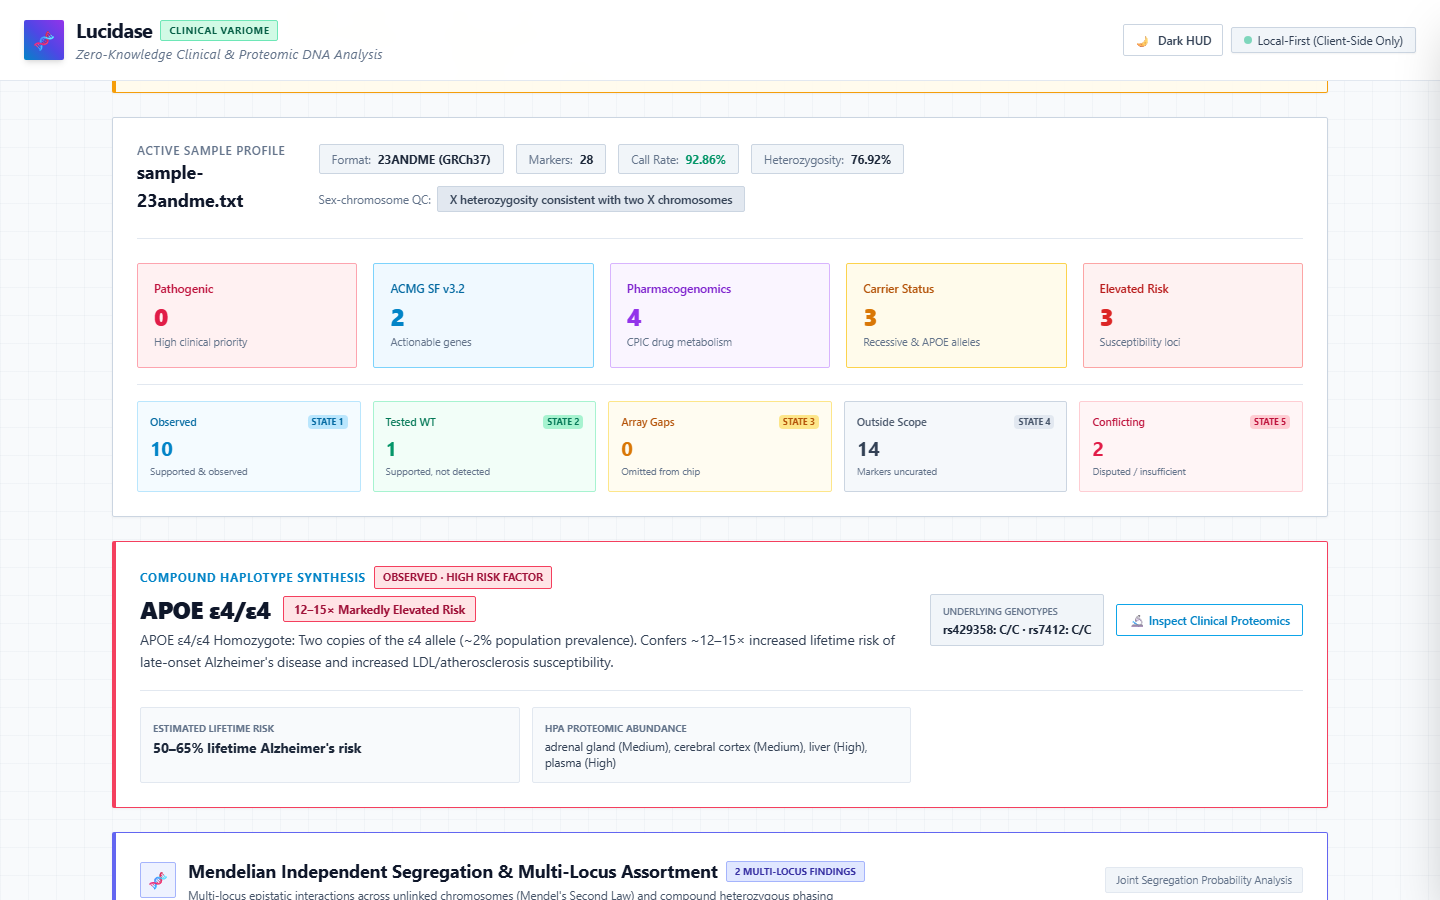
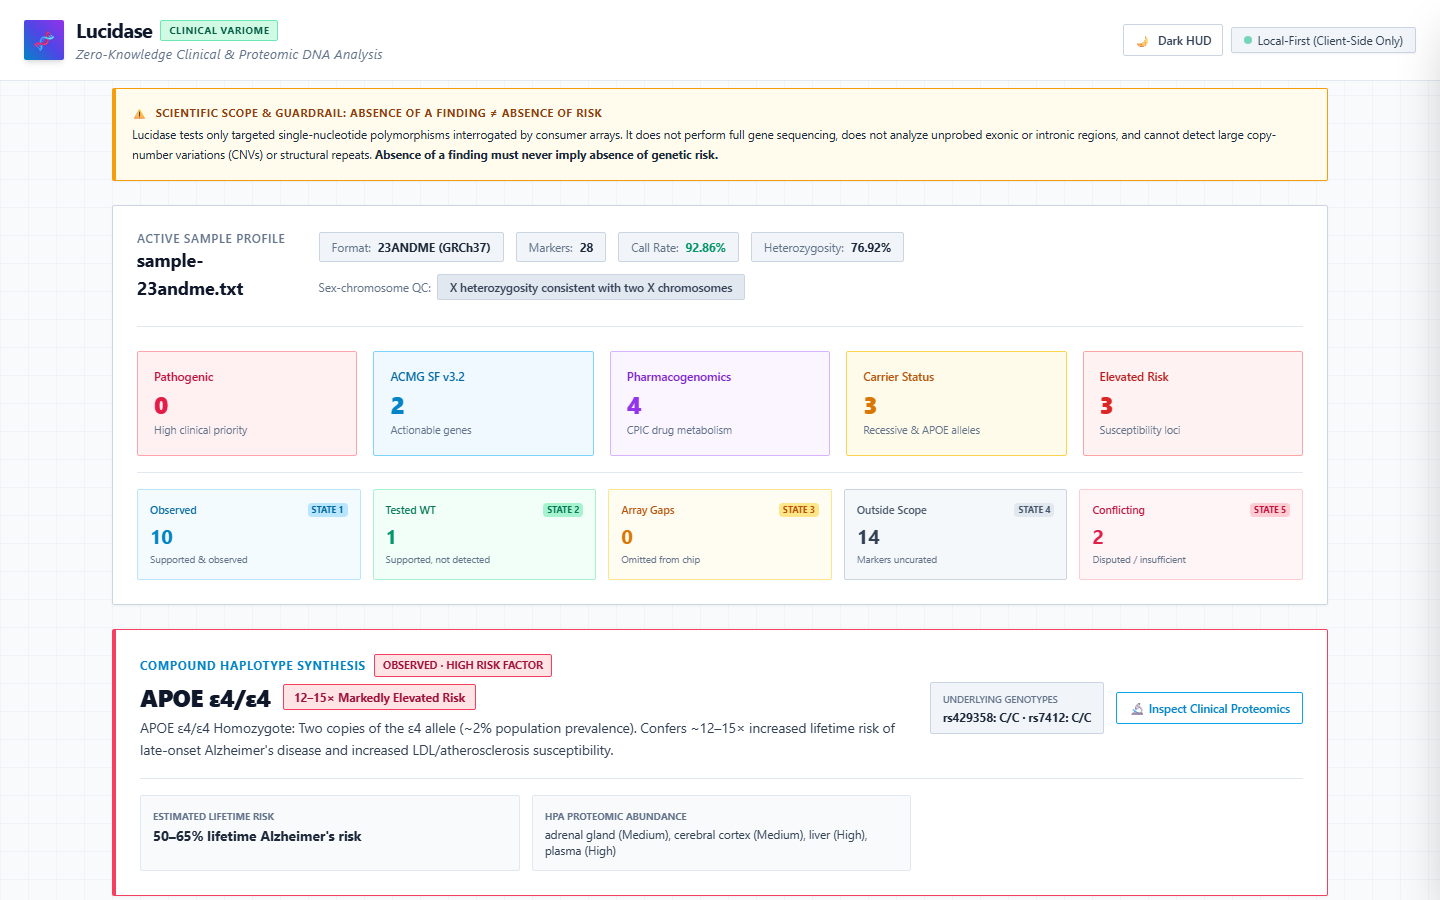
docs(readme): frame the screenshots on the results and correct two README details
The captures scrolled the results section flush to the viewport top,
so the sticky header overlapped the start of the section. The script
now measures the header height in the page and leaves an 8px gap.
Both PNGs are regenerated.

The img alt now describes what the frame shows (guardrail, sample
profile, summary counts, APOE card). "VCF 4.2 files" becomes "VCF
files": parse.js accepts any VCF header.

diff --git a/tools/capture_readme_screenshot.py b/tools/capture_readme_screenshot.py
@@ -80,8 +80,16 @@ def main() -> None:
             page.goto(url, wait_until="networkidle")
             page.click("#btn-load-demo")
             page.wait_for_selector("#results-section", state="visible")
+            # Put the top of the results a few pixels under the sticky header, measured
+            # in the page, so no sliver of the section above shows through.
             page.evaluate(
-                "document.getElementById('results-section').scrollIntoView()"
+                """() => {
+                    const header = document.querySelector('header');
+                    const results = document.getElementById('results-section');
+                    const gap = 8;
+                    const top = results.getBoundingClientRect().top + window.scrollY;
+                    window.scrollTo(0, top - header.getBoundingClientRect().height - gap);
+                }"""
             )
             page.mouse.move(0, 0)
             for theme in ("light", "dark"):

diff --git a/README.md b/README.md
@@ -2,12 +2,12 @@
 
 <picture>
   <source media="(prefers-color-scheme: dark)" srcset="docs/assets/lucidase-screenshot-dark.png">
-  <img src="docs/assets/lucidase-screenshot-light.png" alt="Lucidase analysis results for the bundled demo sample: summary counts, the APOE composite row and the inheritance section">
+  <img src="docs/assets/lucidase-screenshot-light.png" alt="Lucidase analysis results for the bundled demo sample: the scientific-scope guardrail, the sample profile, the summary counts and the APOE compound haplotype card">
 </picture>
 
 *The bundled synthetic demo sample, analysed in the browser.*
 
-Lucidase reads a raw genotype file in your browser and interprets the 14 curated loci (12 genes) in its knowledge base. It says plainly what it could not test. It reads 23andMe, AncestryDNA and MyHeritage array files and VCF 4.2 files, and rejects any other format with a visible error. Formerly GenomePulse.
+Lucidase reads a raw genotype file in your browser and interprets the 14 curated loci (12 genes) in its knowledge base. It says plainly what it could not test. It reads 23andMe, AncestryDNA and MyHeritage array files and VCF files, and rejects any other format with a visible error. Formerly GenomePulse.
 
 ## What it does
 
